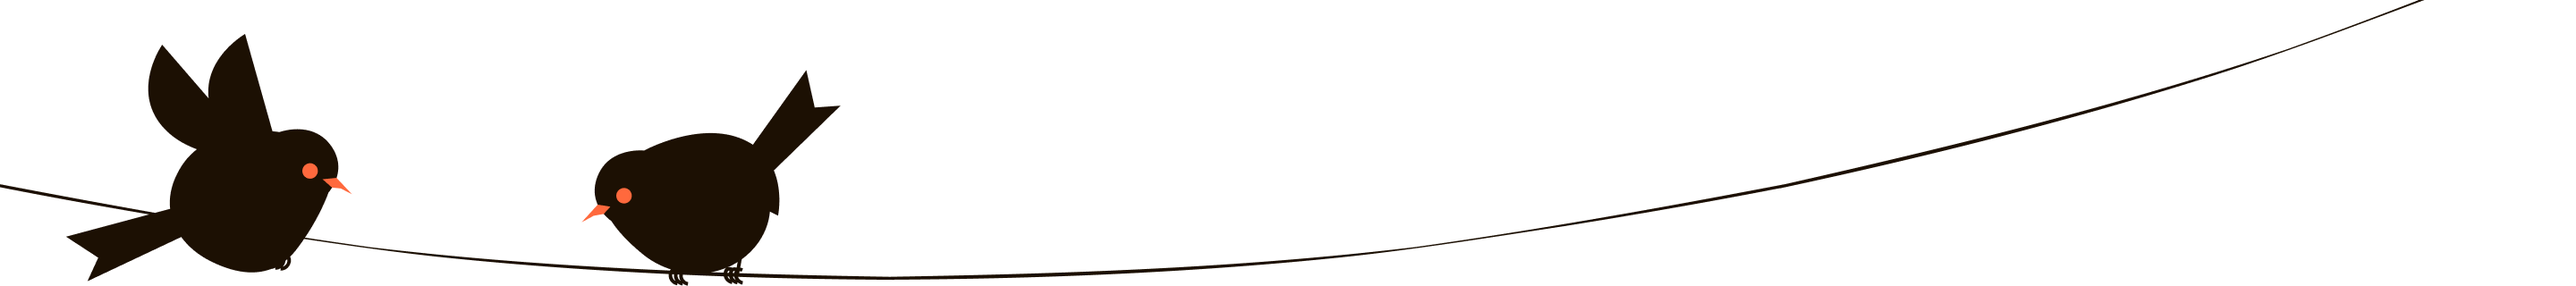
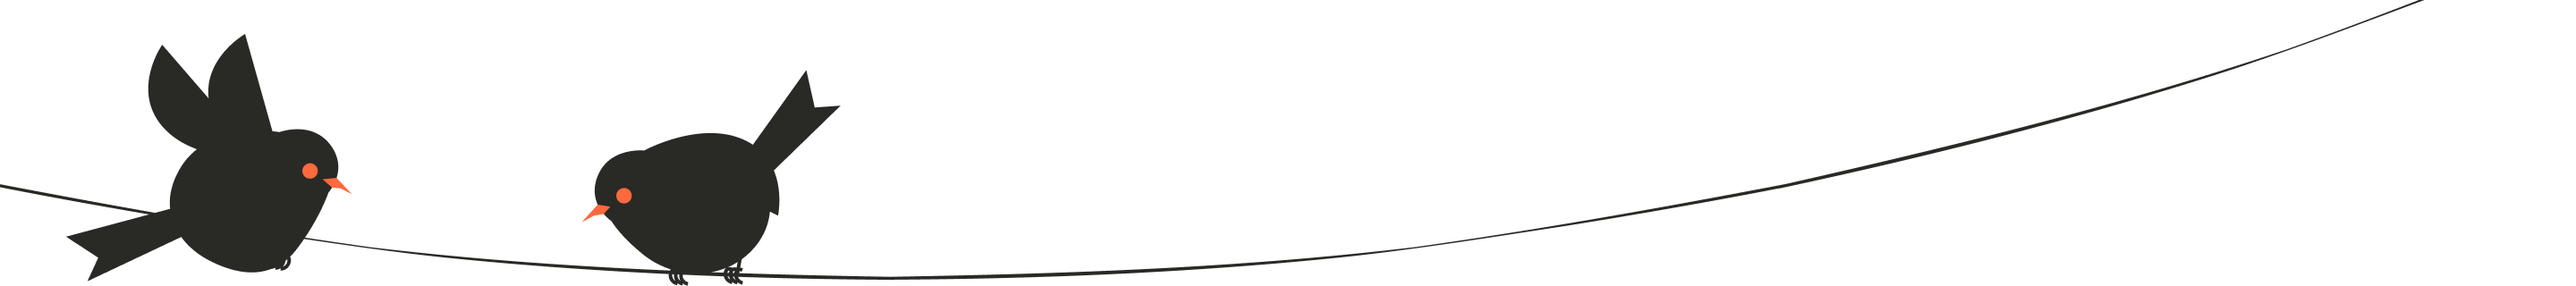
responsiveness fix

diff --git a/src/App.tsx b/src/App.tsx
@@ -1,21 +1,14 @@
 import { HorizontalScroll } from "./components/HorizontalScroll";
-import { MobileBlocker } from "./components/MobileBlocker";
+// MobileBlocker is no longer needed since we support mobile now, but let's keep it if user wants it back or remove it.
+// User requested vertical scroll on mobile, so we should effectively disable the blocker logic or remove it.
+// import { MobileBlocker } from "./components/MobileBlocker";
 import "./App.css";
 
 function App() {
   return (
     <div className='app'>
-      <MobileBlocker />
-      <div className='desktop-content'>
-        <HorizontalScroll />
-      </div>
-      <style>{`
-        @media (max-width: 1023px) {
-          .desktop-content {
-            display: none;
-          }
-        }
-      `}</style>
+      {/* <MobileBlocker /> - Removed as we now support mobile vertical scroll */}
+      <HorizontalScroll />
     </div>
   );
 }

diff --git a/src/theme/index.ts b/src/theme/index.ts
@@ -1,8 +1,7 @@
 export const theme = {
   colors: {
-    primary: "#ffc785", // Light Orange
-    secondary: "#353531", // Dark Grey / Black (Now using secondaryDark everywhere)
-    secondaryDark: "#353531", // Slightly different dark grey (used in Section 2 currently)
+    primary: "#ffc785",
+    secondary: "#292926", // Dark Grey / Black (Now using secondaryDark everywhere)
     textLight: "#ffffff",
     textDark: "#2D2D2D",
   },

diff --git a/src/components/Section1/styles.module.css b/src/components/Section1/styles.module.css
@@ -61,7 +61,7 @@
 }
 
 .girlImage {
-  width: 70%;
+  width: 100%;
   height: auto;
   object-fit: contain;
 }
@@ -78,7 +78,14 @@
   pointer-events: none; /* Let clicks pass through */
 }
 
-@media (max-width: 768px) {
+@media (max-width: 1023px) {
+  /* Adjust for vertical layout on mobile/tablet */
+  .section {
+    width: 100%;
+    height: 100vh;
+    min-height: 600px;
+  }
+
   .container {
     padding-left: 2%;
   }

diff --git a/src/components/Section1/index.tsx b/src/components/Section1/index.tsx
@@ -27,7 +27,6 @@ export const Section1 = () => {
           theme.colors.secondary
         ),
       }}>
-      {/* Replaced Birds component with the birds image requested */}
       <img src={birds} alt='Birds' className={styles.birdsImage} />
 
       <div className={styles.container}>
